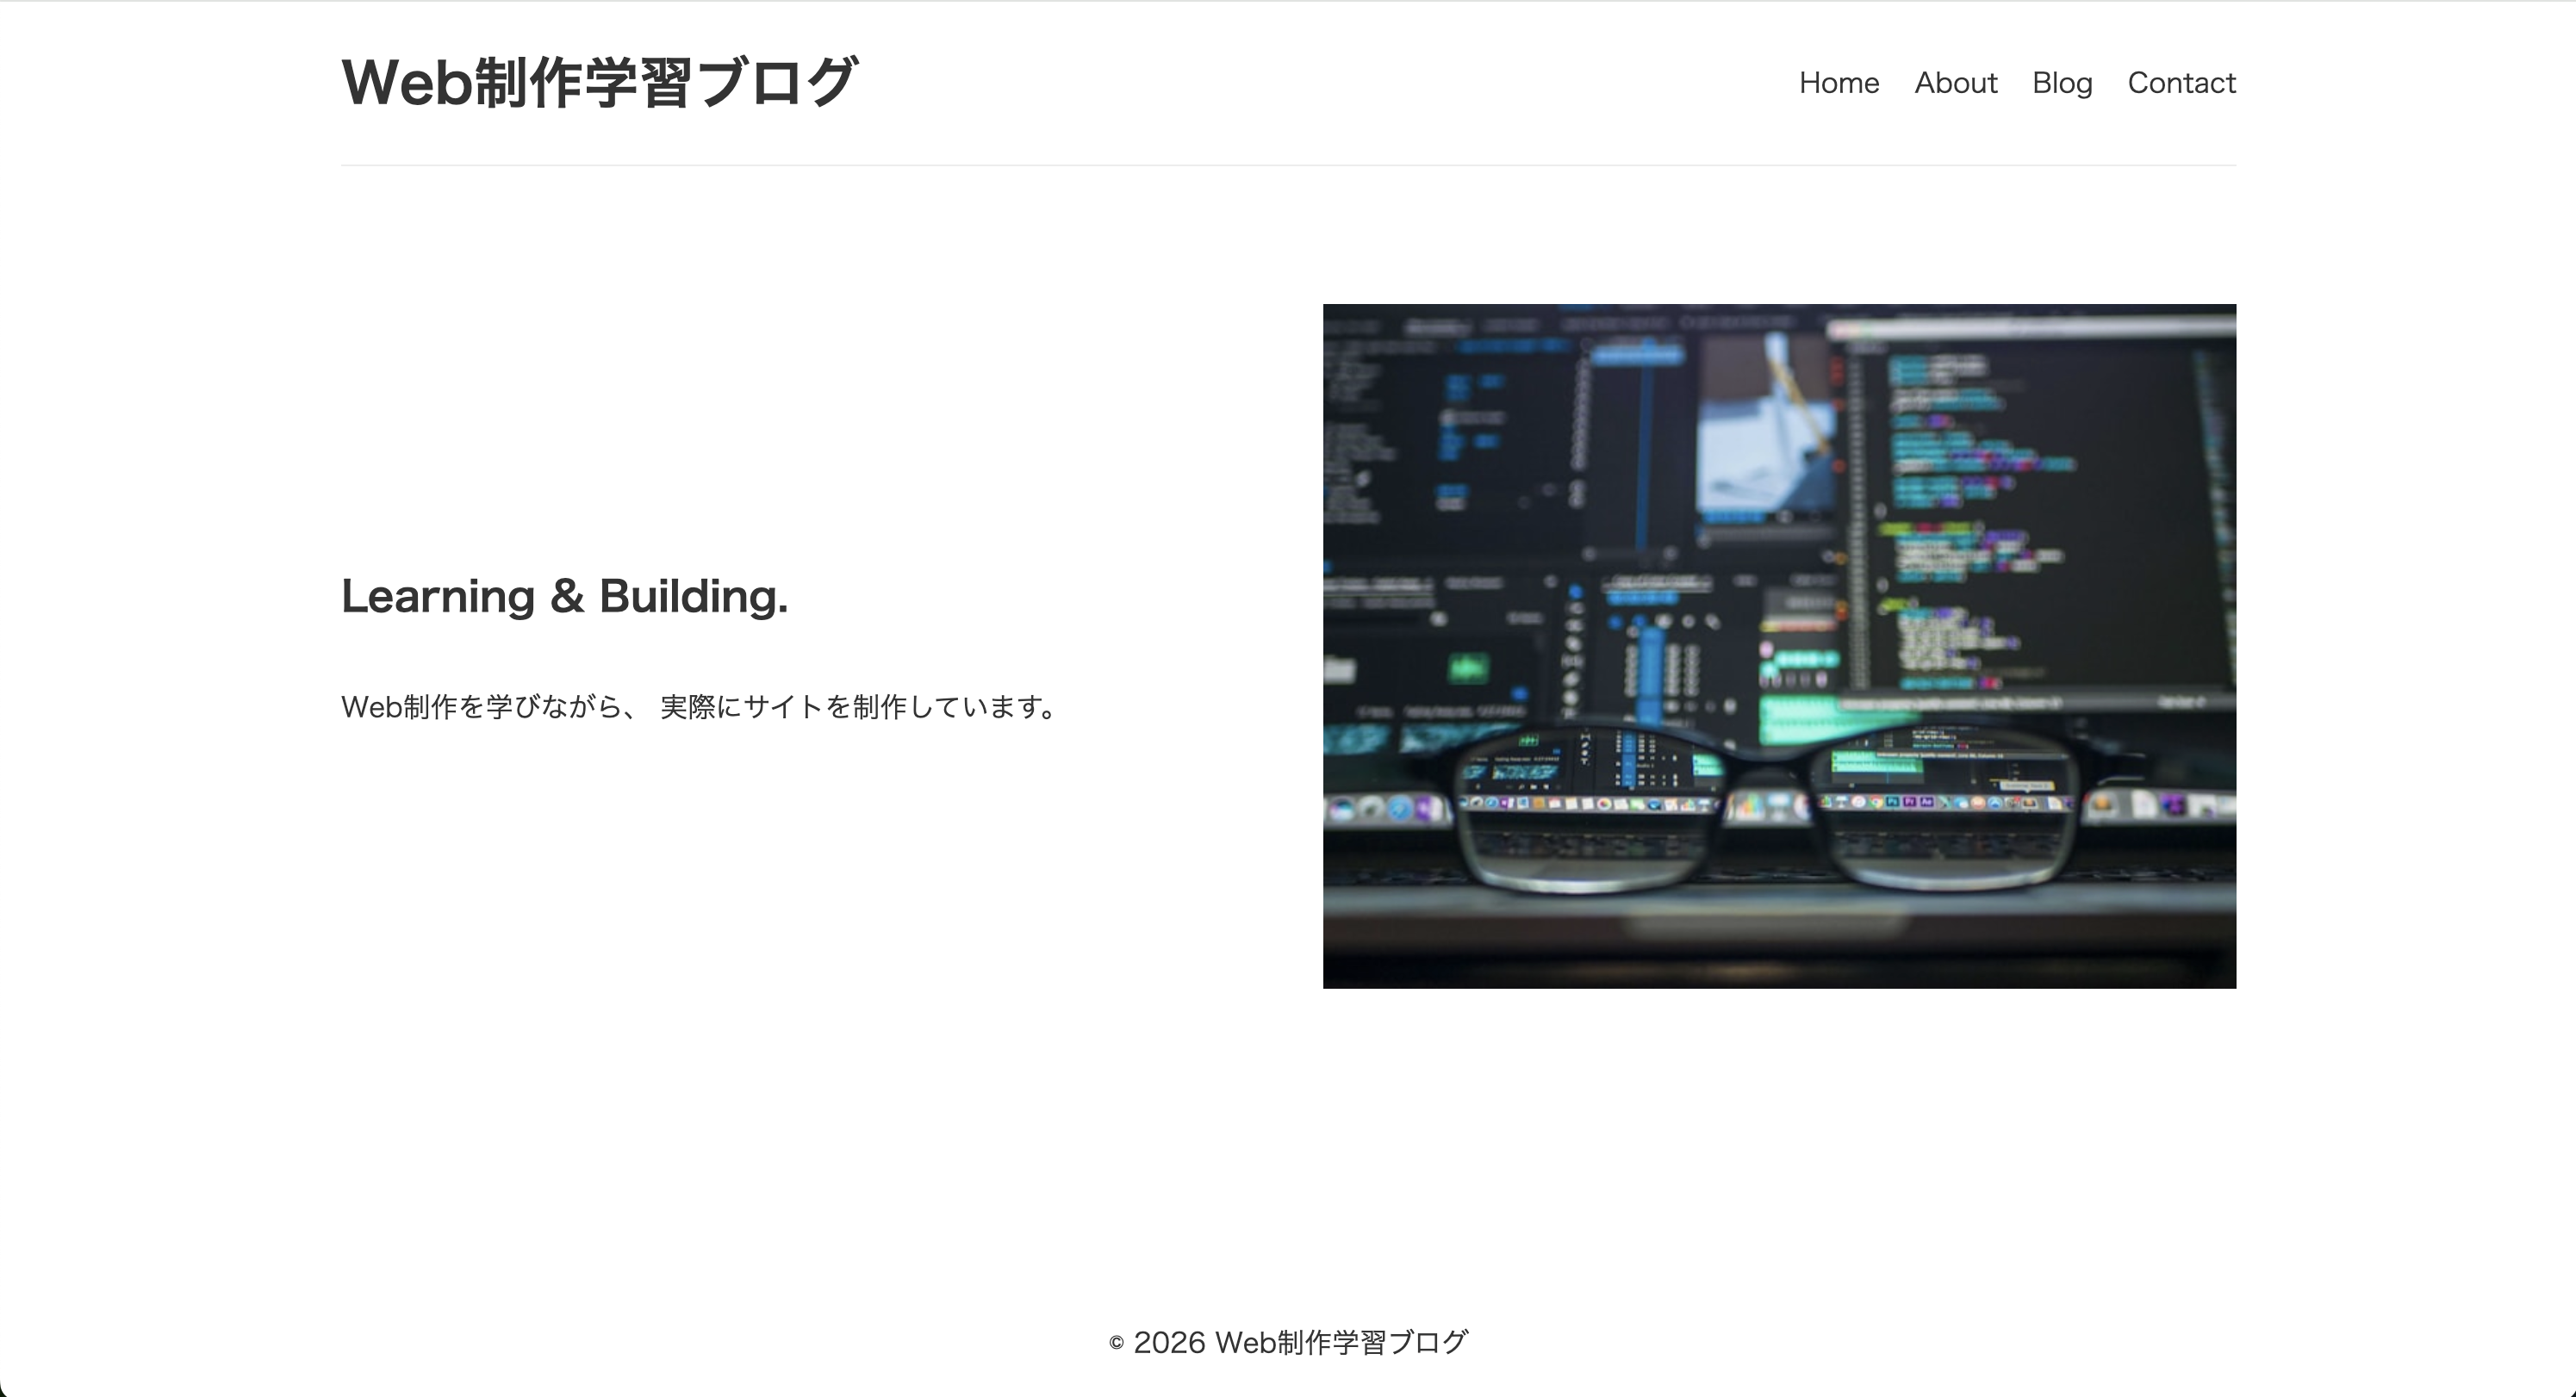
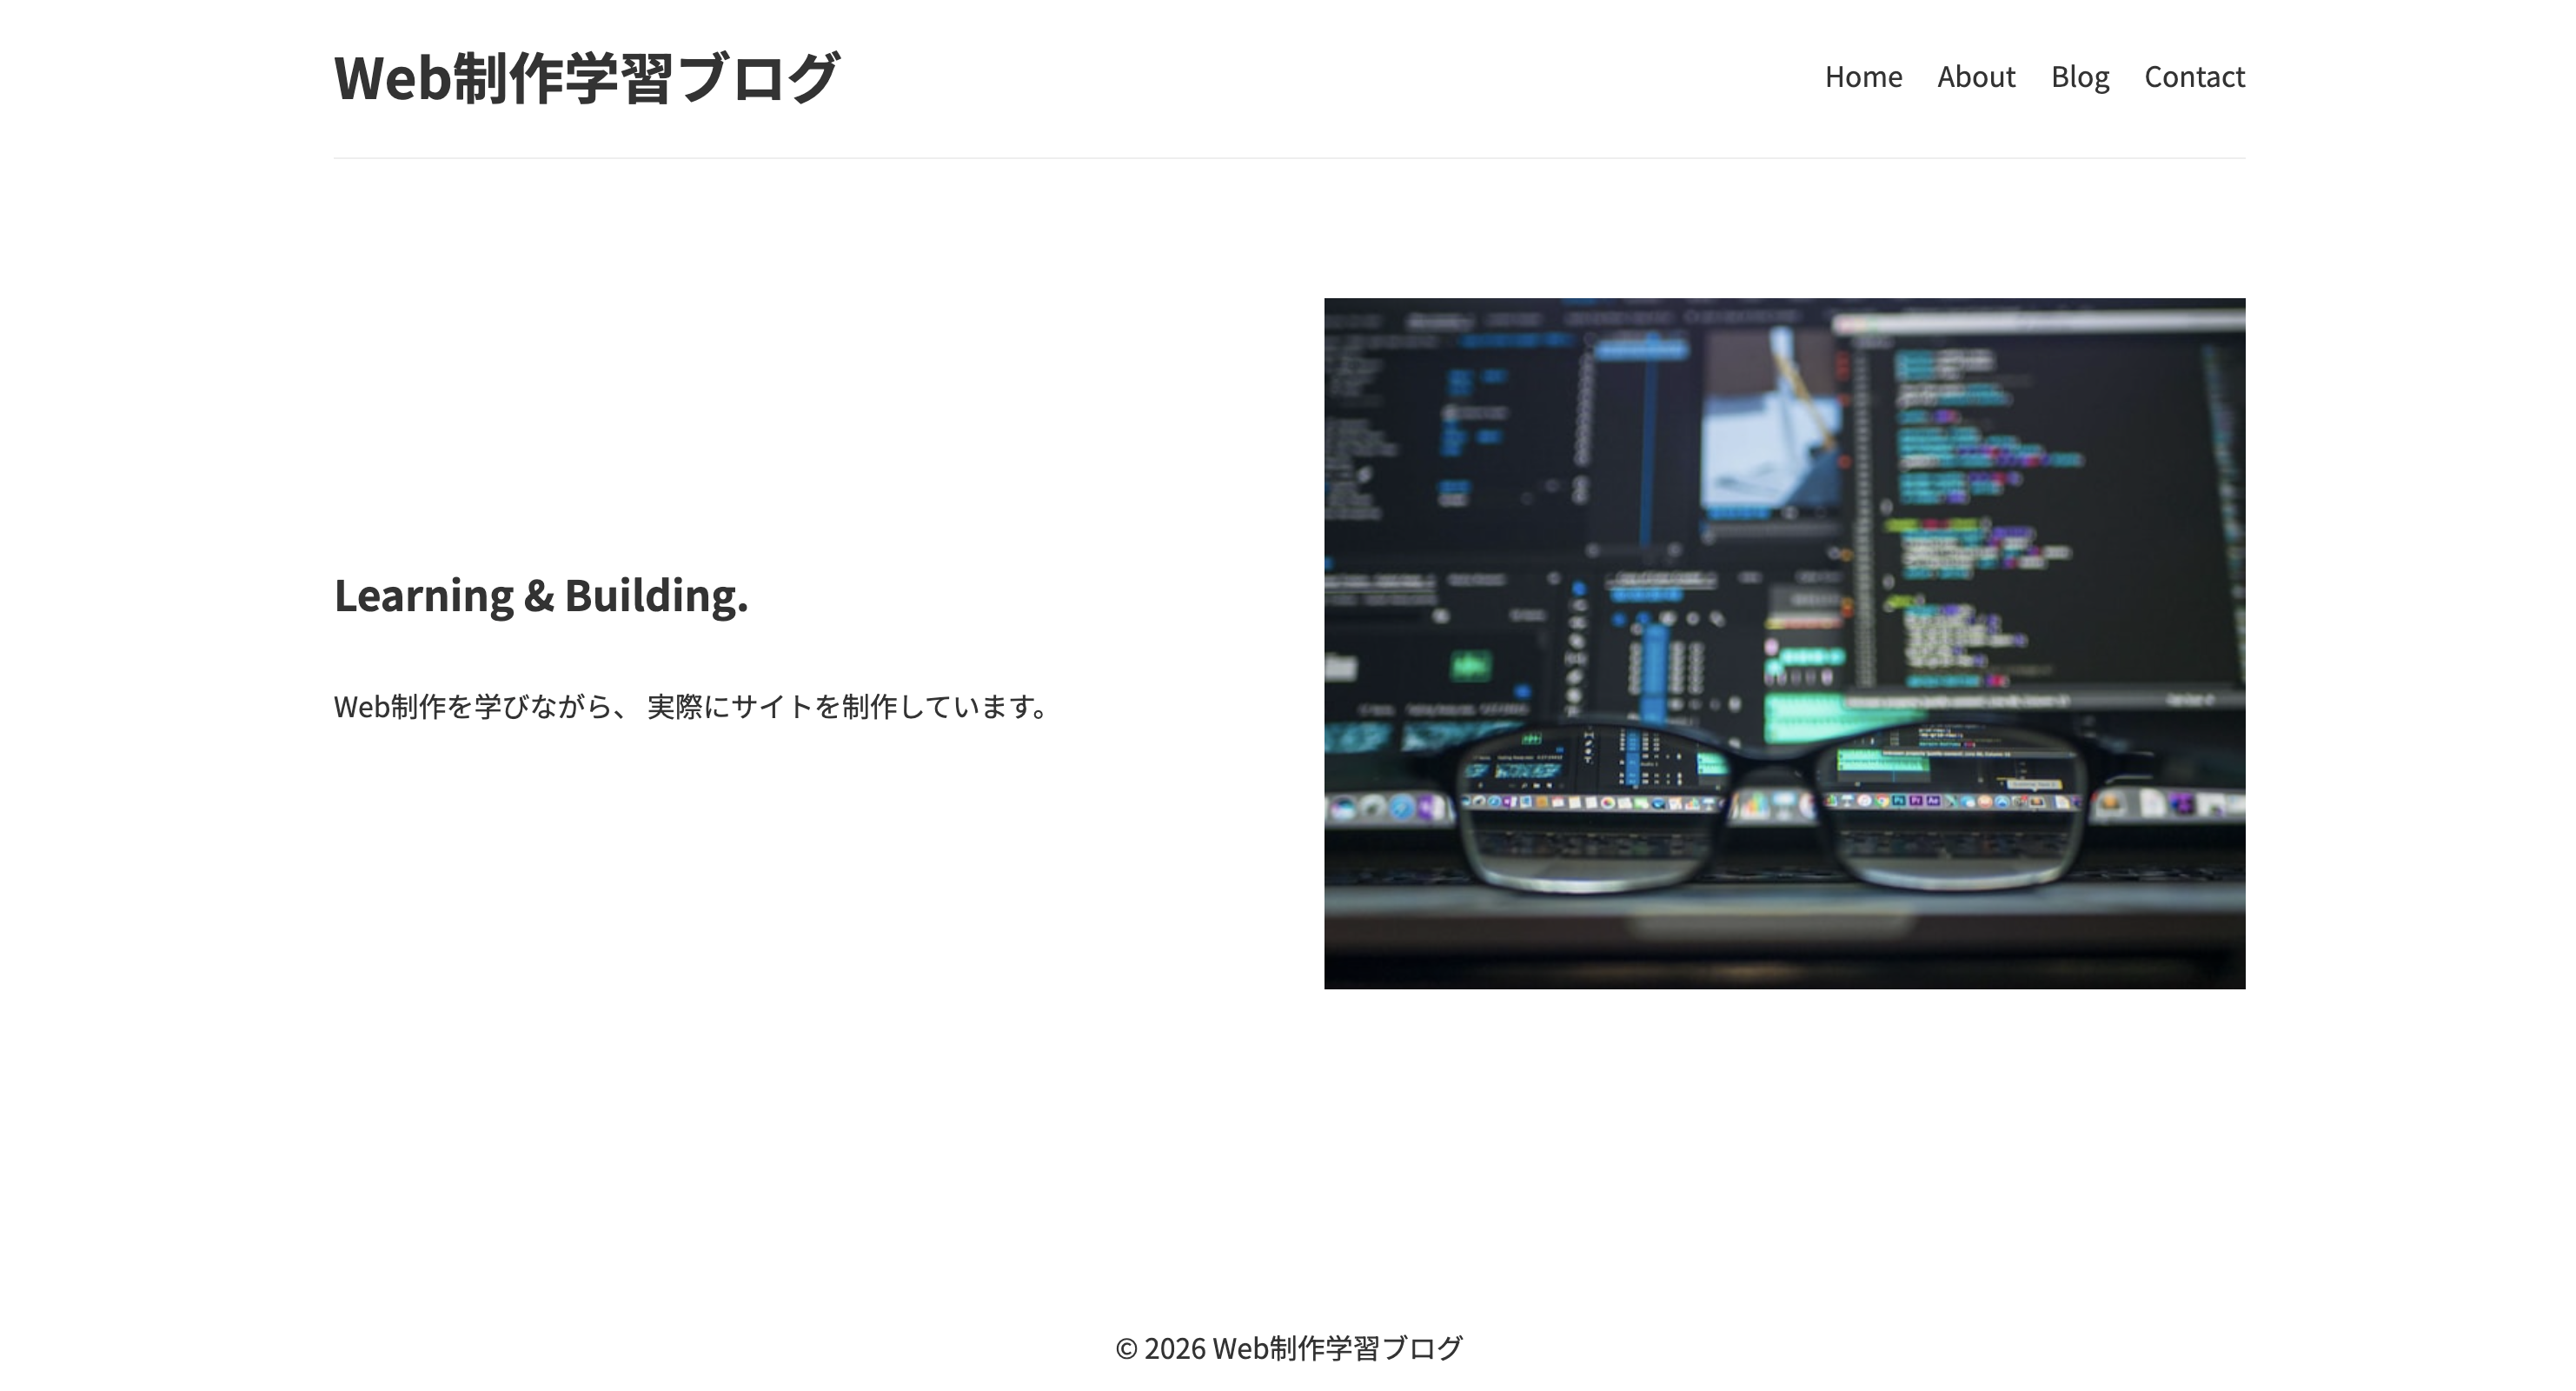
Add Works section and web coding projects

diff --git a/index.html b/index.html
@@ -208,7 +208,128 @@
         <!-- Works -->
 
         <section id="works">
-            <div class="wrapper"></div>
+            <div class="wrapper">
+                <h2 class="section-title">Works</h2>
+                <h3 class="works-category">Web Coding</h3>
+                <div class="works-list">
+
+                    <article class="work-card">
+                        <a href="https://satoru-tanaka-1977.github.io/portfolio-original-site/" target="_blank"
+                            rel="noopener noreferrer">
+                            <img src="img/works-original.png" alt="Web制作学習ブログ">
+                        </a>
+                        <h4>
+                            <a href="https://satoru-tanaka-1977.github.io/portfolio-original-site/" target="_blank"
+                                rel="noopener noreferrer">
+                                Web制作学習ブログ
+                            </a>
+                        </h4>
+                        <p class="work-skill">
+                            HTML / CSS
+                        </p>
+                        <p>
+                            模写ではなく、レイアウトやデザインを
+                            一から考えて制作したオリジナルサイトです。
+                            レスポンシブ対応を行いながら、
+                            設計から実装まで取り組みました。
+                        </p>
+                    </article>
+
+                    <article class="work-card">
+                        <a href="https://satoru-tanaka-1977.github.io/codejump-intermediate-01-store2/" target="_blank"
+                            rel="noopener noreferrer">
+                            <img src="img/works-store.png" alt="Store Site">
+                        </a>
+                        <h4>
+                            <a href="https://satoru-tanaka-1977.github.io/codejump-intermediate-01-store2/"
+                                target="_blank" rel="noopener noreferrer">
+                                Store Site
+                            </a>
+                        </h4>
+                        <p class="work-skill">
+                            HTML / CSS / JavaScript / jQuery
+                        </p>
+                        <p>
+                            家具ECサイトを再現したコーディング作品です。
+                            複数ページ構成やレスポンシブ対応に加え、
+                            jQueryを用いたハンバーガーメニューを実装しました。
+                        </p>
+                    </article>
+
+                    <article class="work-card">
+                        <a href="https://satoru-tanaka-1977.github.io/webtan-gym/" target="_blank"
+                            rel="noopener noreferrer">
+                            <img src="img/works-gym.png" alt="Gym Site">
+                        </a>
+                        <h4>
+                            <a href="https://satoru-tanaka-1977.github.io/webtan-gym/" target="_blank"
+                                rel="noopener noreferrer">
+                                Gym Site
+                            </a>
+                        </h4>
+                        <p class="work-skill">
+                            HTML / CSS / JavaScript / jQuery
+                        </p>
+                        <p>
+                            フィットネスジムサイトを再現した
+                            コーディング作品です。
+                            デザインカンプをもとに制作し、
+                            ハンバーガーメニューやパララックス背景を実装しました。
+                        </p>
+                    </article>
+
+                    <article class="work-card">
+                        <a href="https://satoru-tanaka-1977.github.io/codejump-beginner-04-web-entertainment/"
+                            target="_blank" rel="noopener noreferrer">
+                            <img src="img/works-corporate.png" alt="Corporate Site">
+                        </a>
+                        <h4>
+                            <a href="https://satoru-tanaka-1977.github.io/codejump-beginner-04-web-entertainment/"
+                                target="_blank" rel="noopener noreferrer">
+                                Corporate Site
+                            </a>
+                        </h4>
+                        <p class="work-skill">
+                            HTML / CSS
+                        </p>
+                        <p>
+                            コーポレートサイトを再現した
+                            コーディング作品です。
+                            positionを用いたレイアウトや
+                            疑似要素による装飾表現を学習しました。
+                        </p>
+                    </article>
+
+                </div>
+                <h3 class="works-category">Graphic Design</h3>
+                <div class="works-list">
+
+                    <article class="work-card">
+                        <img src="img/works-card.png" alt="名刺デザイン">
+                        <h4>名刺</h4>
+                        <p class="work-skill">
+                            Illustrator
+                        </p>
+                        <p>
+                            職業訓練で制作した名刺デザインです。
+                            情報整理やレイアウトの基礎を意識して制作しました。
+                        </p>
+                    </article>
+
+                    <article class="work-card">
+                        <img src="img/works-banner.jpg" alt="バナーデザイン">
+                        <h4>バナー</h4>
+                        <p class="work-skill">
+                            Photoshop
+                        </p>
+                        <p>
+                            職業訓練で制作したバナー作品です。
+                            配色や文字組みを意識しながら制作しました。
+                        </p>
+                    </article>
+
+                </div>
+            </div>
         </section>
 
         <!-- Contact -->